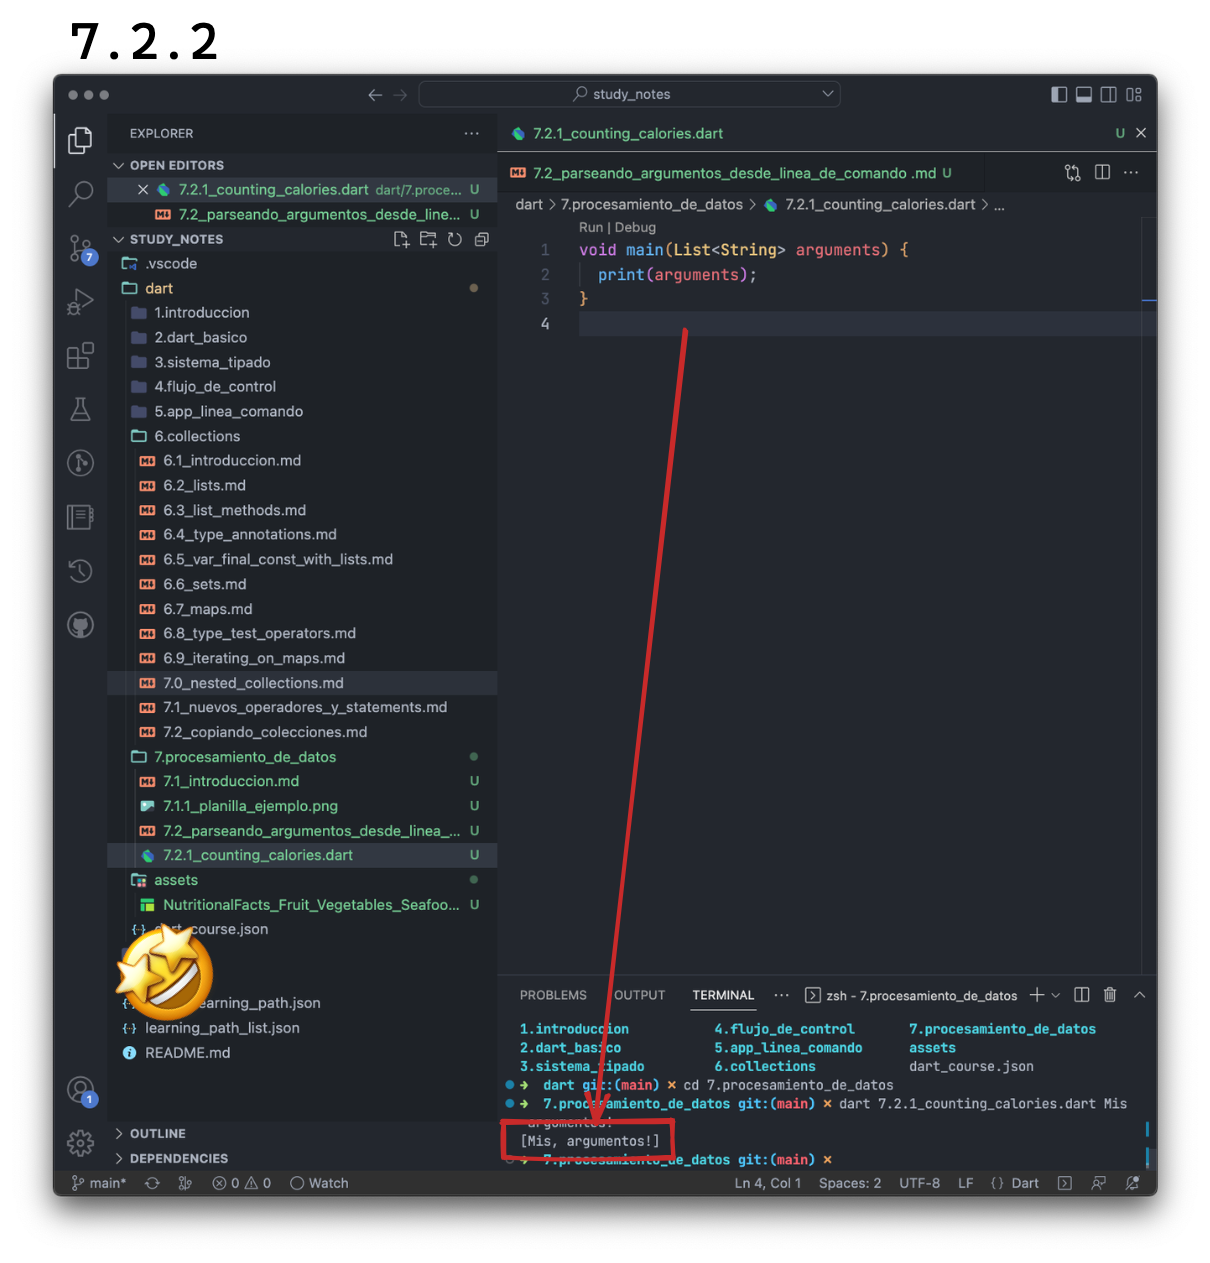
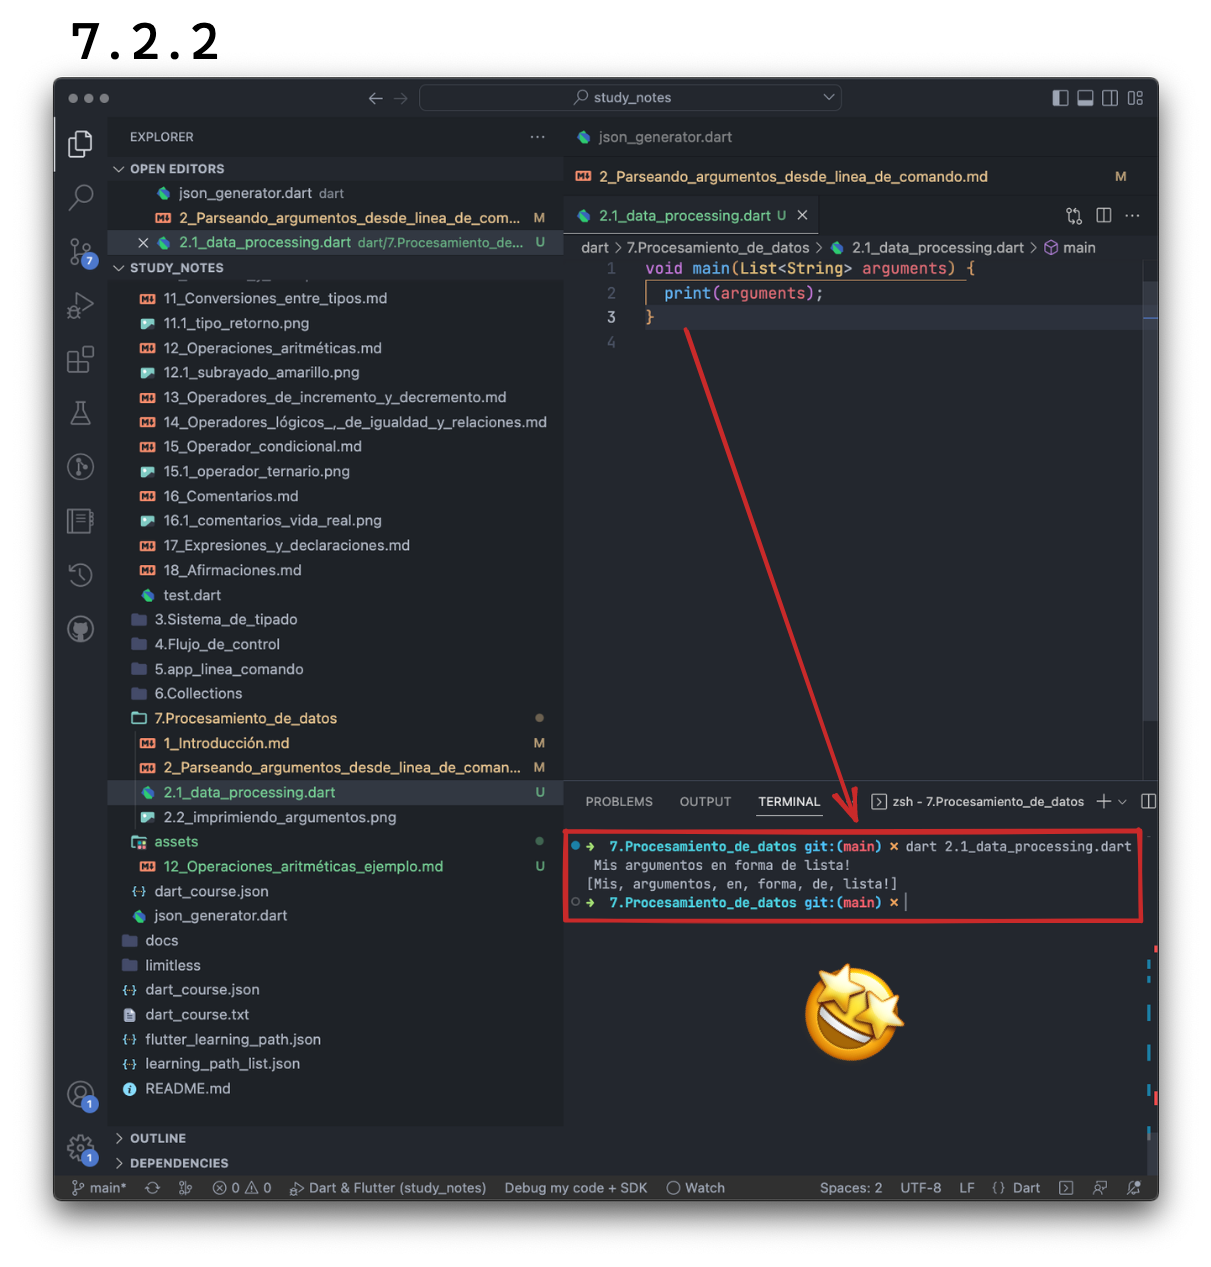
add new images

diff --git a/dart/7.Procesamiento_de_datos/2.1_data_processing.dart b/dart/7.Procesamiento_de_datos/2.1_data_processing.dart
@@ -2,7 +2,7 @@ import 'dart:io';
 
 void main(List<String> arguments) {
   if (arguments.isEmpty) {
-    print('Usage: dart counting_calories.dart <inputFile.csv>');
+    print('Usage: dart data_processing.dart <inputFile.csv>');
     exit(1);
   }
   final inputFile = arguments.first;

diff --git a/dart/7.Procesamiento_de_datos/2_Parseando_argumentos_desde_línea_de_comando.md b/dart/7.Procesamiento_de_datos/2_Parseando_argumentos_desde_línea_de_comando.md
@@ -2,7 +2,7 @@
 
 Creo que ya dijimos que parsear significa analizar y convertir un valor en otro, típicamente de formato interno, un valor que podamos utilizar para nuestros fines específicos.
 
-Bien, aquí lo que vamos a crear es un programa que nos permita leer un archivo `.csv`, parsearlo para convertirlo a valores que podamos utilizar, hacer algo útil con ellos y finalmente mostrarnos el resultado esperado!
+Bien, aquí lo que vamos a crear es un programa que nos permita leer un archivo `.md`, parsearlo para convertirlo a valores que podamos utilizar, hacer algo útil con ellos y finalmente mostrarnos el resultado esperado!
 
 Empecemos recordando cómo crear un proyecto en Dart y nuestro primer archivo:
 
@@ -10,7 +10,7 @@ Empecemos recordando cómo crear un proyecto en Dart y nuestro primer archivo:
 2. Creen un directorio para este proyecto: `mkdir data_processing`.
 3. Entren a dicho directorio: `cd data_processing` (recuerden que pueden utilizar la tecla `tab` para autocompletar).
 4. Abran una nueva instancia de VSCode dentro: `code .`.
-5. Creen un nuevo archivo llamado `counting_calories.dart`.
+5. Creen un nuevo archivo llamado `data_processing.dart`.
 
 Una vez allí, lo que queremos hacer ahora, es crear un programa para línea de comandos que reciba un argumento que represente el lugar o _path_ en donde se encuentra nuestro archivo a procesar para luego poder hacer algo con el.
 
@@ -22,7 +22,7 @@ void main(List<String> arguments) {
 }
 ```
 
-Estamos creando un programa que recibe una lista de argumentos del tipo `String` para luego imprimirlos. 💀 Vayan a guardar ya mismo ese programa y córranlo así: `dart counting_calories.dart Mis argumentos!`. Qué creen que sucederá?
+Estamos creando un programa que recibe una lista de argumentos del tipo `String` para luego imprimirlos. 💀 Vayan a guardar ya mismo ese programa y córranlo así: `dart data_processing.dart Mis argumentos!`. Qué creen que sucederá?
 
 ![Imprimiendo arguments](https://raw.githubusercontent.com/themonkslab/courses/main/dart/7.Procesamiento_de_datos/2.2_imprimiendo_argumentos.png)
 
@@ -31,7 +31,7 @@ Interesante no? Bien! Ahora, como vamos a necesitar de forma obligatoria un arch
 ```dart
 void main(List<String> arguments) {
   if (arguments.isEmpty) {
-    print('Usage: dart counting_calories.dart <inputFile.csv>');
+    print('Usage: dart data_processing.dart <inputFile.md>');
   } else {
     print(arguments);
   }
@@ -43,7 +43,7 @@ Sin embargo el programa debiera terminar automáticamente cuando lo corremos sin
 ```dart
 void main(List<String> arguments) {
   if (arguments.isEmpty) {
-    print('Usage: dart counting_calories.dart <inputFile.csv>');
+    print('Usage: dart data_processing.dart <inputFile.md>');
     exit(1);
   }
   print(arguments);
@@ -55,7 +55,7 @@ Finalmente podemos guardar nuestro _path_ del archivo o _input file_ y que eso s
 ```dart
 void main(List<String> arguments) {
   if (arguments.isEmpty) {
-    print('Usage: dart counting_calories.dart <inputFile.csv>');
+    print('Usage: dart data_processing.dart <inputFile.md>');
     exit(1);
   }
   final inputFile = 

diff --git a/dart/7.Procesamiento_de_datos/1_Introducción.md b/dart/7.Procesamiento_de_datos/1_Introducción.md
@@ -1,13 +1,7 @@
 # Introducción
 
-En esta sección vamos a utilizar Dart para procesar datos provenientes de un archivo `.csv`, que vendría a ser un archivo de texto separado por comas y lo pueden hacer con cualquier hoja de cálculo que ya tengan hecha.
+En esta sección vamos a utilizar Dart para procesar datos provenientes de un archivo `.md`, que vendría a ser un archivo de texto que nos permite renderizar formato de forma muy simple. Pueden ver un ejemplo de cómo funciona en [este editor](https://dillinger.io/).
 
-Una vez en su app preferida de hojas de cálculo, van a descargar y les aparecerán varias opciones; elijan la que les permite exportarlo como `.csv` y tendrán su archivo separado por comas listo para utilizar!
+Intentaremos parsear argumentos de la línea de comandos, leer el archivo línea a línea, procesarlo, crear otro archivo desde él y más!
 
-En nuestro caso, utilizaremos la que les dejo dentro de los assets, aquí: [ejemplo para procesar datos](../assets/NutritionalFacts_Fruit_Vegetables_Seafood.csv).
-
-Este `csv` es una planilla con alimentos posibles de conseguir estando cerca del mar 🙃 y se puede ver así:
-
-![Planilla de ejemplo](https://raw.githubusercontent.com/themonkslab/courses/main/dart/7.Procesamiento_de_datos/1.1_planilla_ejemplo.png)
-
-La vamos a utilizar para identificar cuáles de ellos tienen más calorías, grasas y otros nutrientes, cosa que seguramente no nos sea de demasiada utilidad ahora pero nos va a servir para aprender a procesar cualquier tipo de dato que nos interese! Vamos a ello! 🥳
+Esperamos les guste mucho como a nosotros hacer esta sección! 🥳

diff --git a/dart/7.Procesamiento_de_datos/3_Leyendo_archivos_línea_a_línea.md b/dart/7.Procesamiento_de_datos/3_Leyendo_archivos_línea_a_línea.md
@@ -1,0 +1,3 @@
+# Leyendo archivos línea a línea
+
+Para este ejercicio, van a ir al siguiente link
